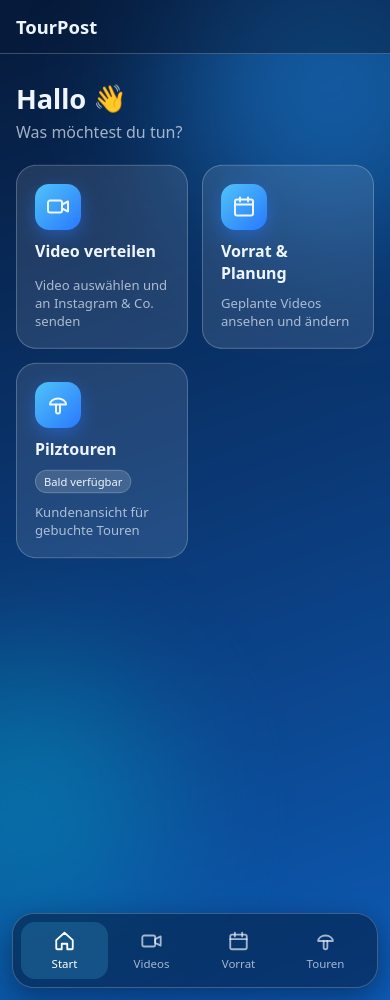
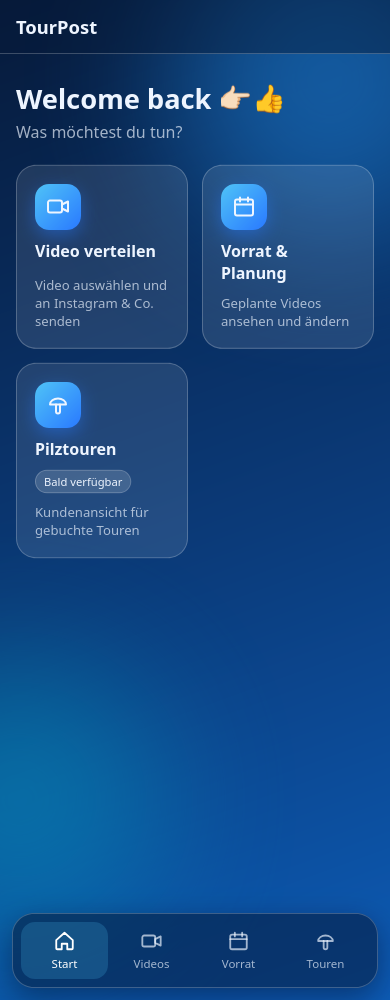
Startseite: Welcome back statt Hallo

Changed region(s): [[0.0308, 0.062, 0.7385, 0.124]]

diff --git a/public/index.html b/public/index.html
@@ -17,7 +17,7 @@
   <header class="topbar"><h1>TourPost</h1></header>
   <main>
     <section class="hero">
-      <h2>Hallo 👋</h2>
+      <h2>Welcome back 👉🏻👍</h2>
       <p>Was möchtest du tun?</p>
     </section>
     <div class="menu-grid" data-menu-grid></div>
